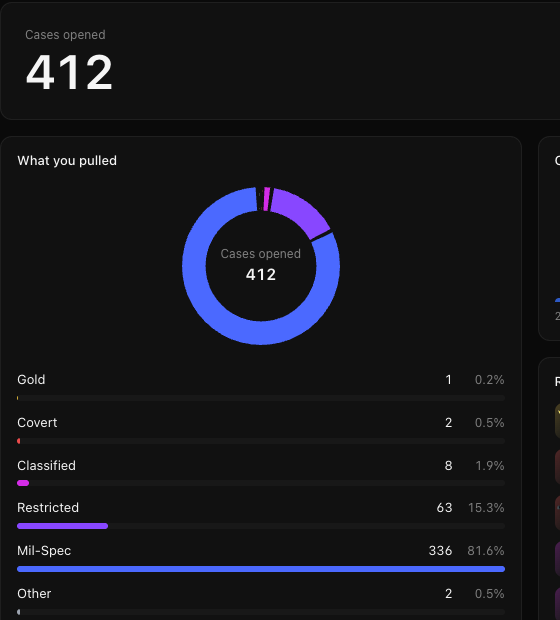
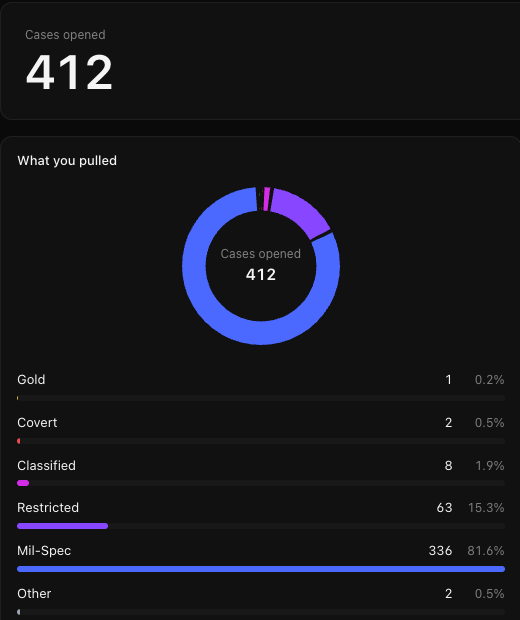
fix(ui): 🔧 clip lens crops, tighten hero and stats rhythm, align 404 card

diff --git a/src/styles/sections.css b/src/styles/sections.css
@@ -48,7 +48,7 @@
 .w__in { display: inline-block; animation: word-up 1s var(--ease-out) both; animation-delay: calc(var(--i) * 0.04s + 0.05s); }
 @keyframes word-up { from { transform: translateY(105%); } }
 
-.hero__row { position: relative; display: grid; gap: 2.5rem; margin-top: clamp(2rem, 1rem + 3vw, 4rem); align-items: end; }
+.hero__row { position: relative; display: grid; gap: 2.5rem; margin-top: clamp(1.25rem, 0.5rem + 1.6vw, 2.25rem); align-items: end; }
 @media (min-width: 900px) { .hero__row { grid-template-columns: minmax(0, 1fr) minmax(0, 26rem); gap: 4rem; } }
 .hero__lede { font-size: var(--t-m); line-height: 1.38; letter-spacing: -0.015em; max-width: 34ch; color: var(--c-muted); }
 .hero__lede strong { color: var(--c-fg); font-weight: 400; }
@@ -90,7 +90,6 @@
 
 @media (min-width: 960px) {
   .story__grid { display: grid; grid-template-columns: minmax(0, 4fr) minmax(0, 8fr); gap: clamp(2rem, 4vw, 5rem); }
-  .story__stage { margin-right: calc(var(--gutter) * -0.5); }
   .chapter { min-height: 92vh; display: flex; align-items: center; padding-block: 0; }
   .chapter .shot--inline { display: none; }
   .story__stage { display: block; }
@@ -111,7 +110,7 @@
 }
 
 /* Numbers */
-.numbers { padding-block: clamp(6rem, 4rem + 10vw, 13rem); border-top: 1px solid var(--c-line); margin-top: 0; }
+.numbers { padding-block: clamp(3rem, 2rem + 4vw, 6rem) clamp(6rem, 4rem + 10vw, 13rem); border-top: 1px solid var(--c-line); margin-top: 0; }
 .numbers__h { margin-bottom: clamp(2rem, 5vw, 5rem); }
 .numbers__grid { list-style: none; padding: 0; display: grid; gap: 3rem 2rem; }
 @media (min-width: 700px) { .numbers__grid { grid-template-columns: repeat(2, 1fr); } }
@@ -219,3 +218,8 @@
 @media (min-width: 960px) { .chapter__fig { display: none; } }
 .shot--inline { margin-top: 1.5rem; }
 .chapter__fig.is-neg { color: #ff7a6b; }
+
+.nf__card { justify-self: stretch; width: 100%; }
+.chapter:last-child { min-height: 70vh; }
+.hdr__nav a:hover, .hdr__nav a:focus-visible { color: var(--c-accent); }
+@media (max-width: 520px) { .w__in { animation-duration: 0.7s; animation-delay: calc(var(--i) * 0.025s + 0.02s); } }
